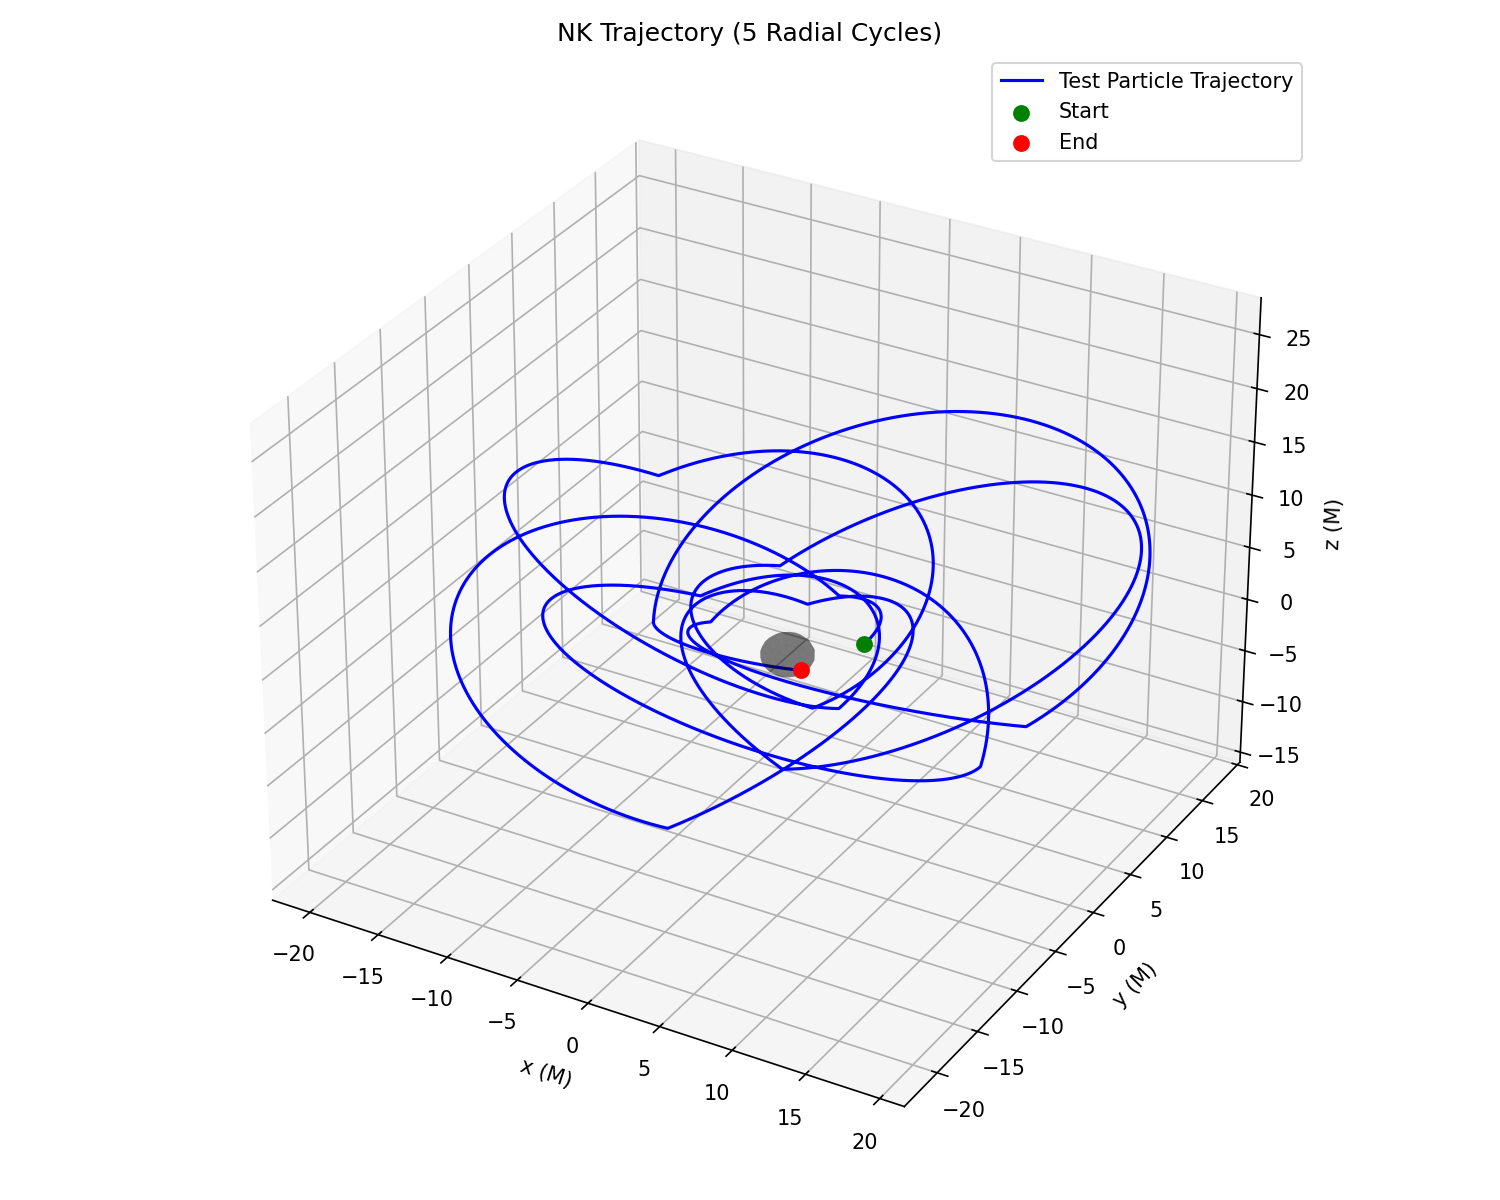
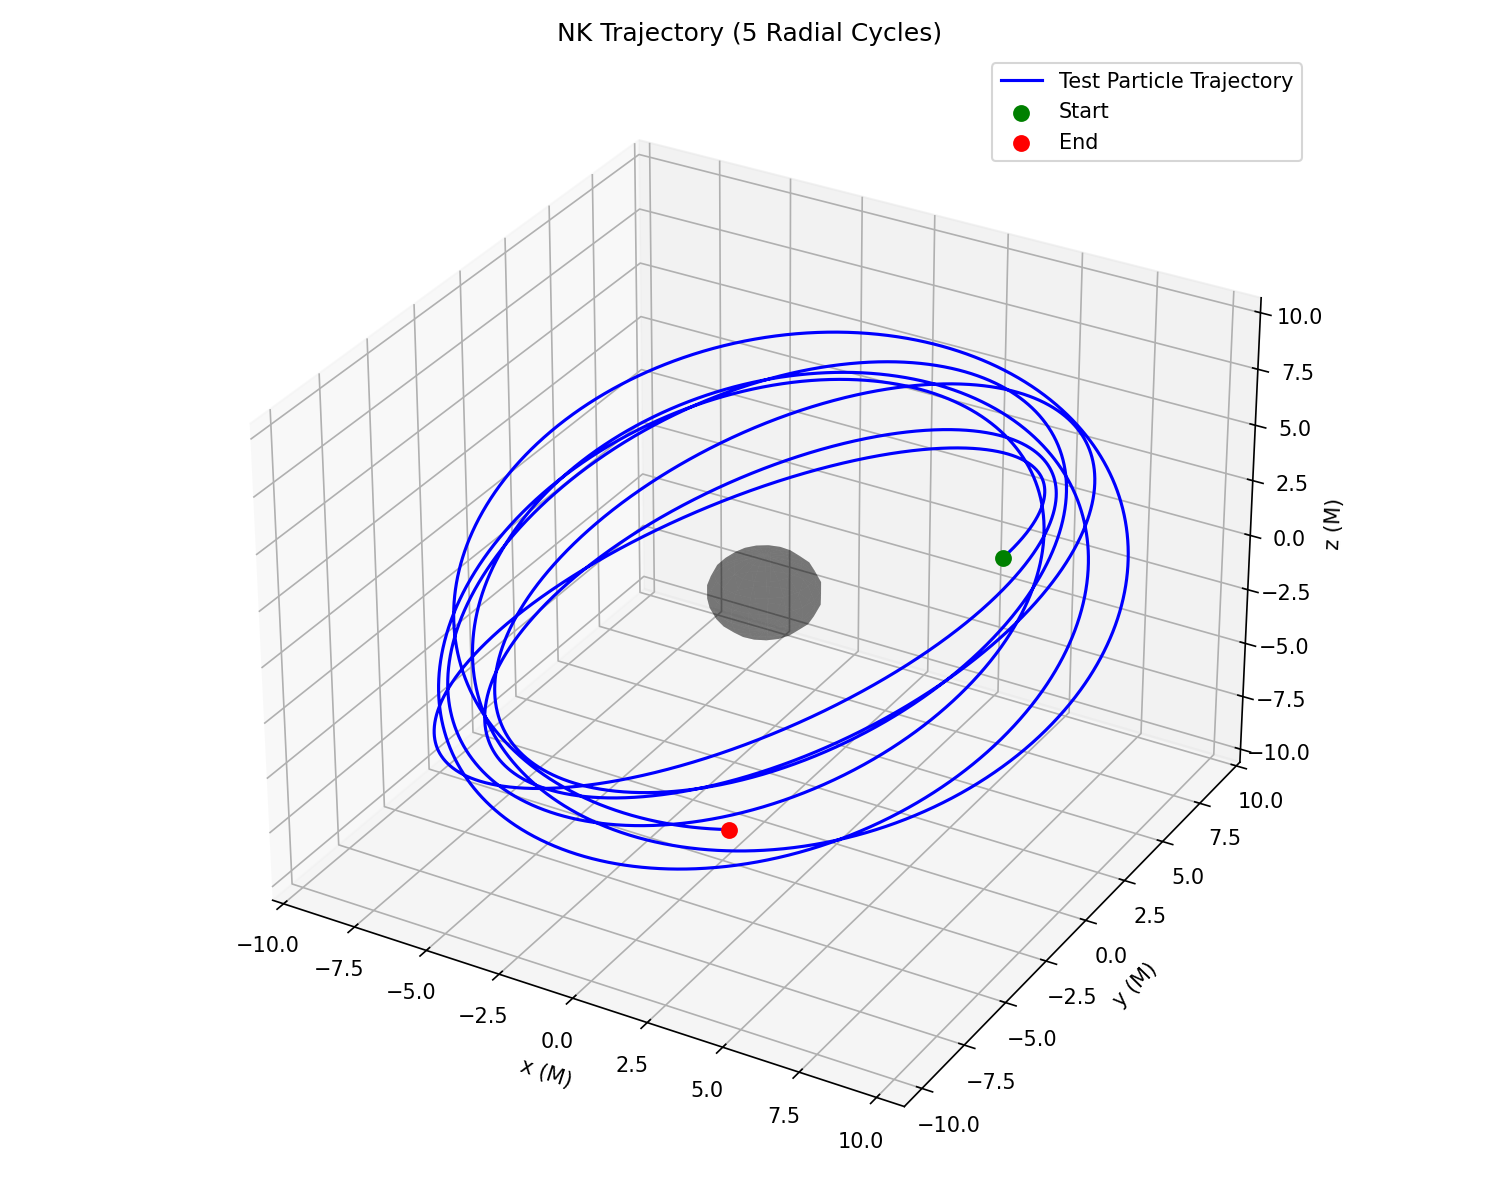
NK update 32

diff --git a/test_chunked_wave.py b/test_chunked_wave.py
@@ -157,7 +157,7 @@ def run_production_pipeline():
     M_phys_solar = 1e6
     mu_phys_solar = 10.0
     a_spin = 0.7
-    p_init, e_init, iota_init = 10.0, 0.1, np.radians(30.0)
+    p_init, e_init, iota_init = 10.0, 0.6, np.radians(30.0)
     
     M_kg = M_phys_solar * M_SUN_SI
     T_unit_sec = G_SI * M_kg / (C_SI**3)
